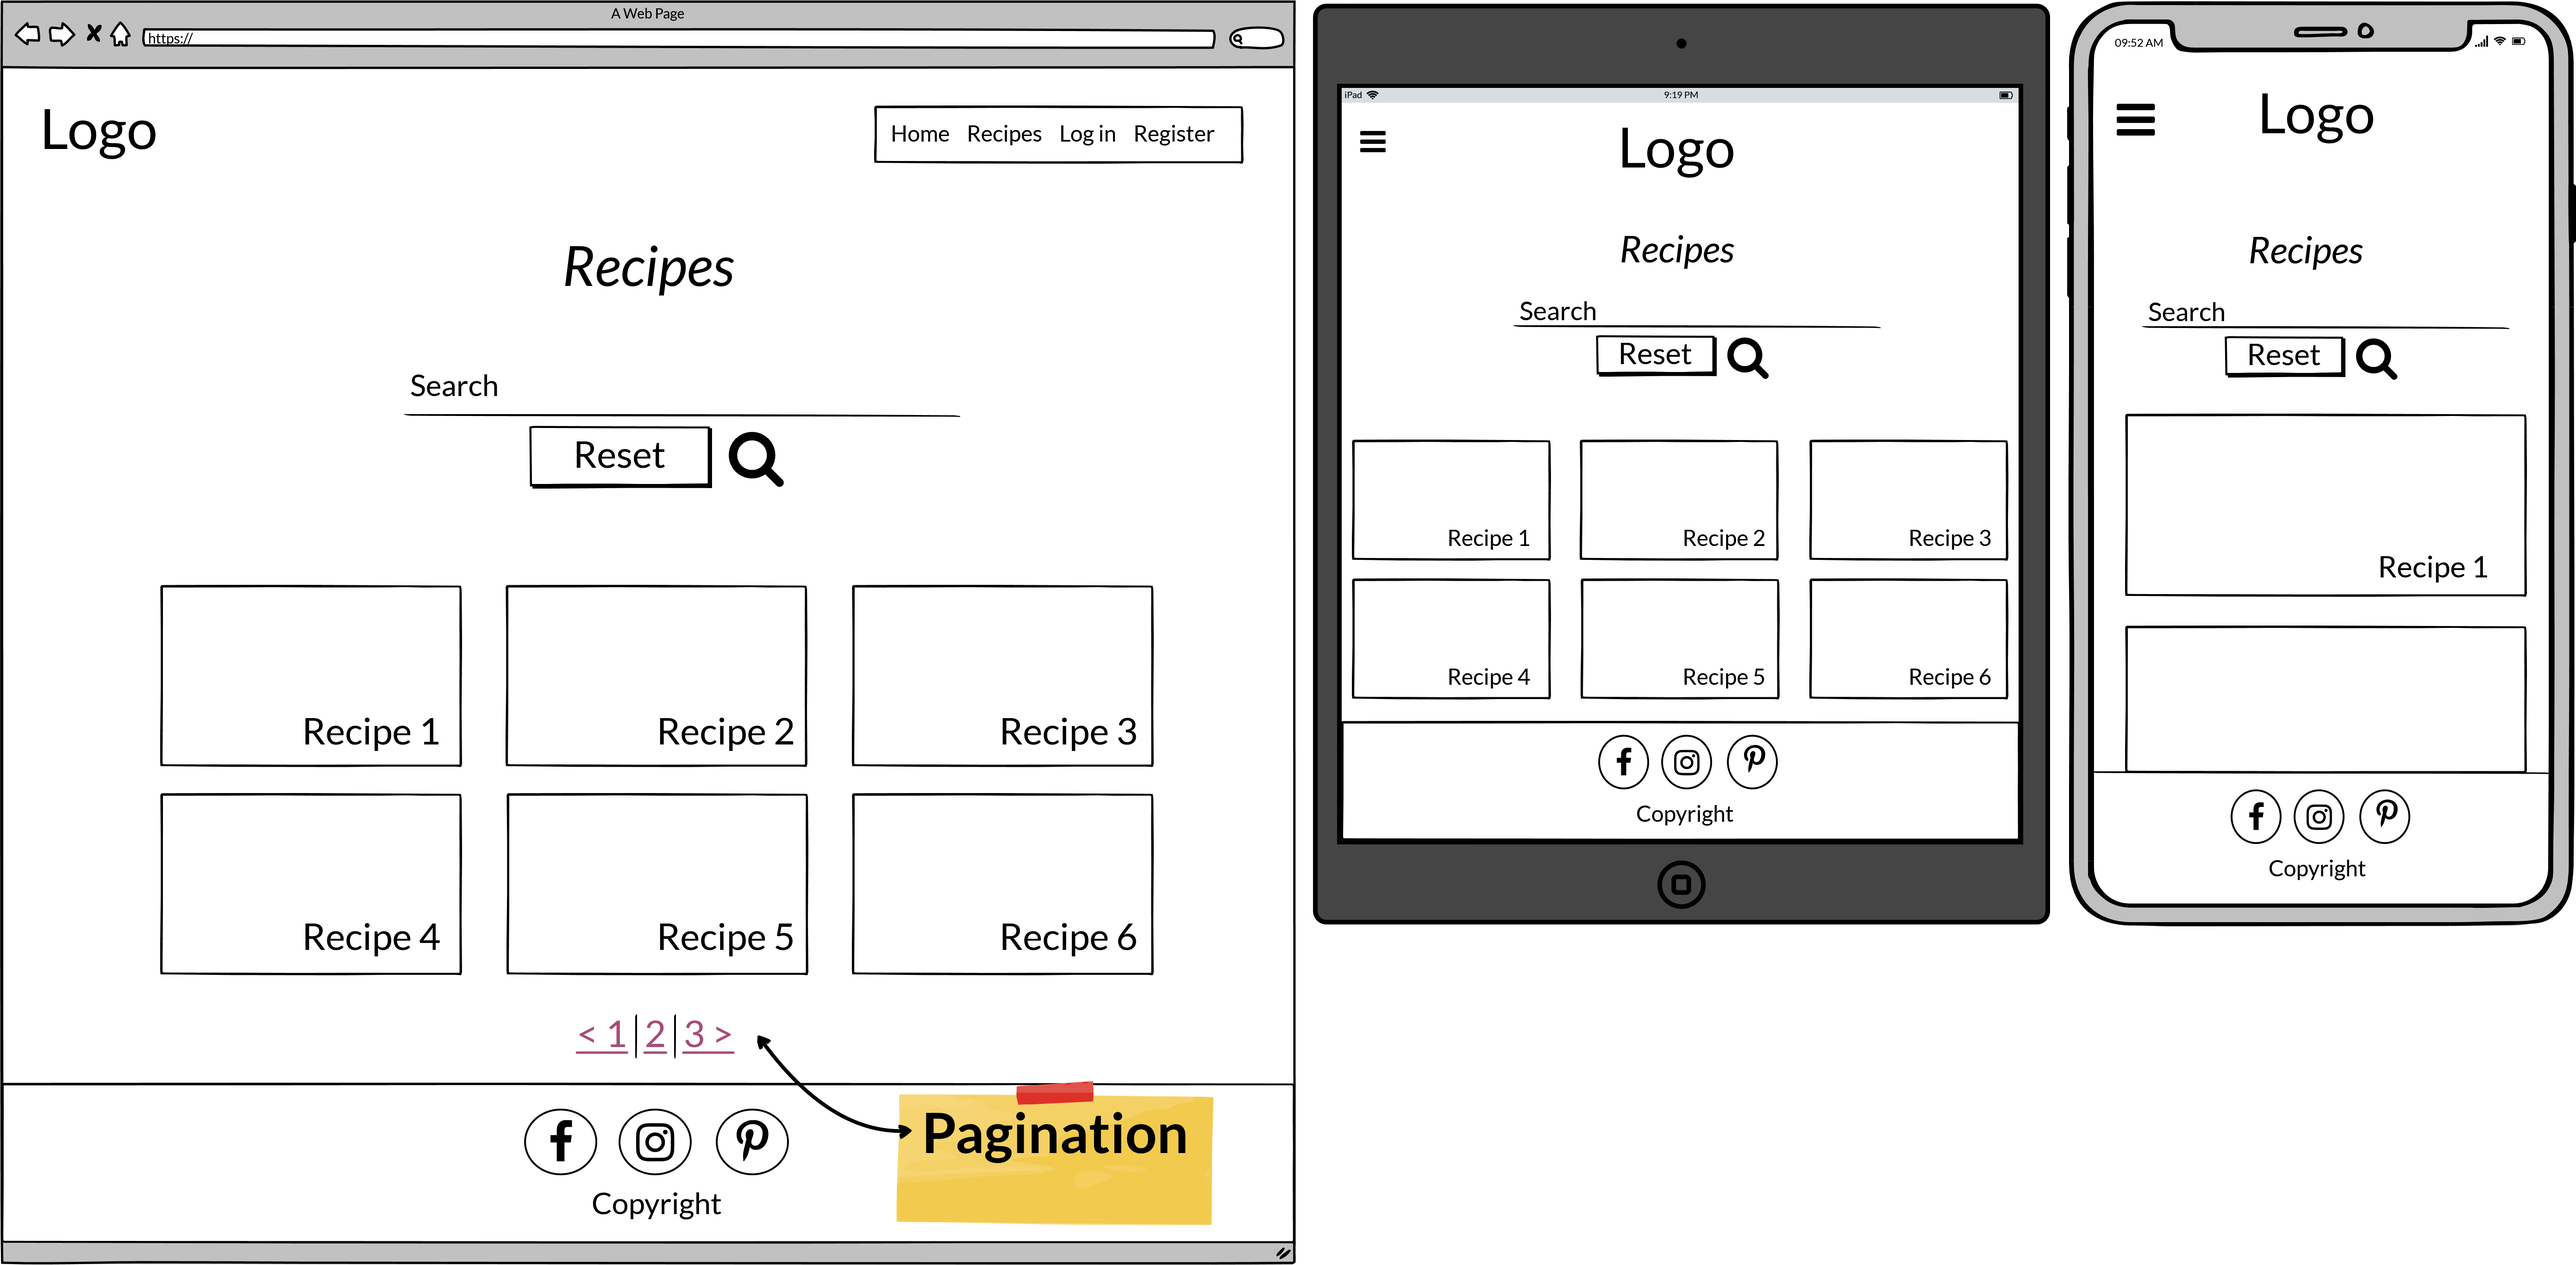
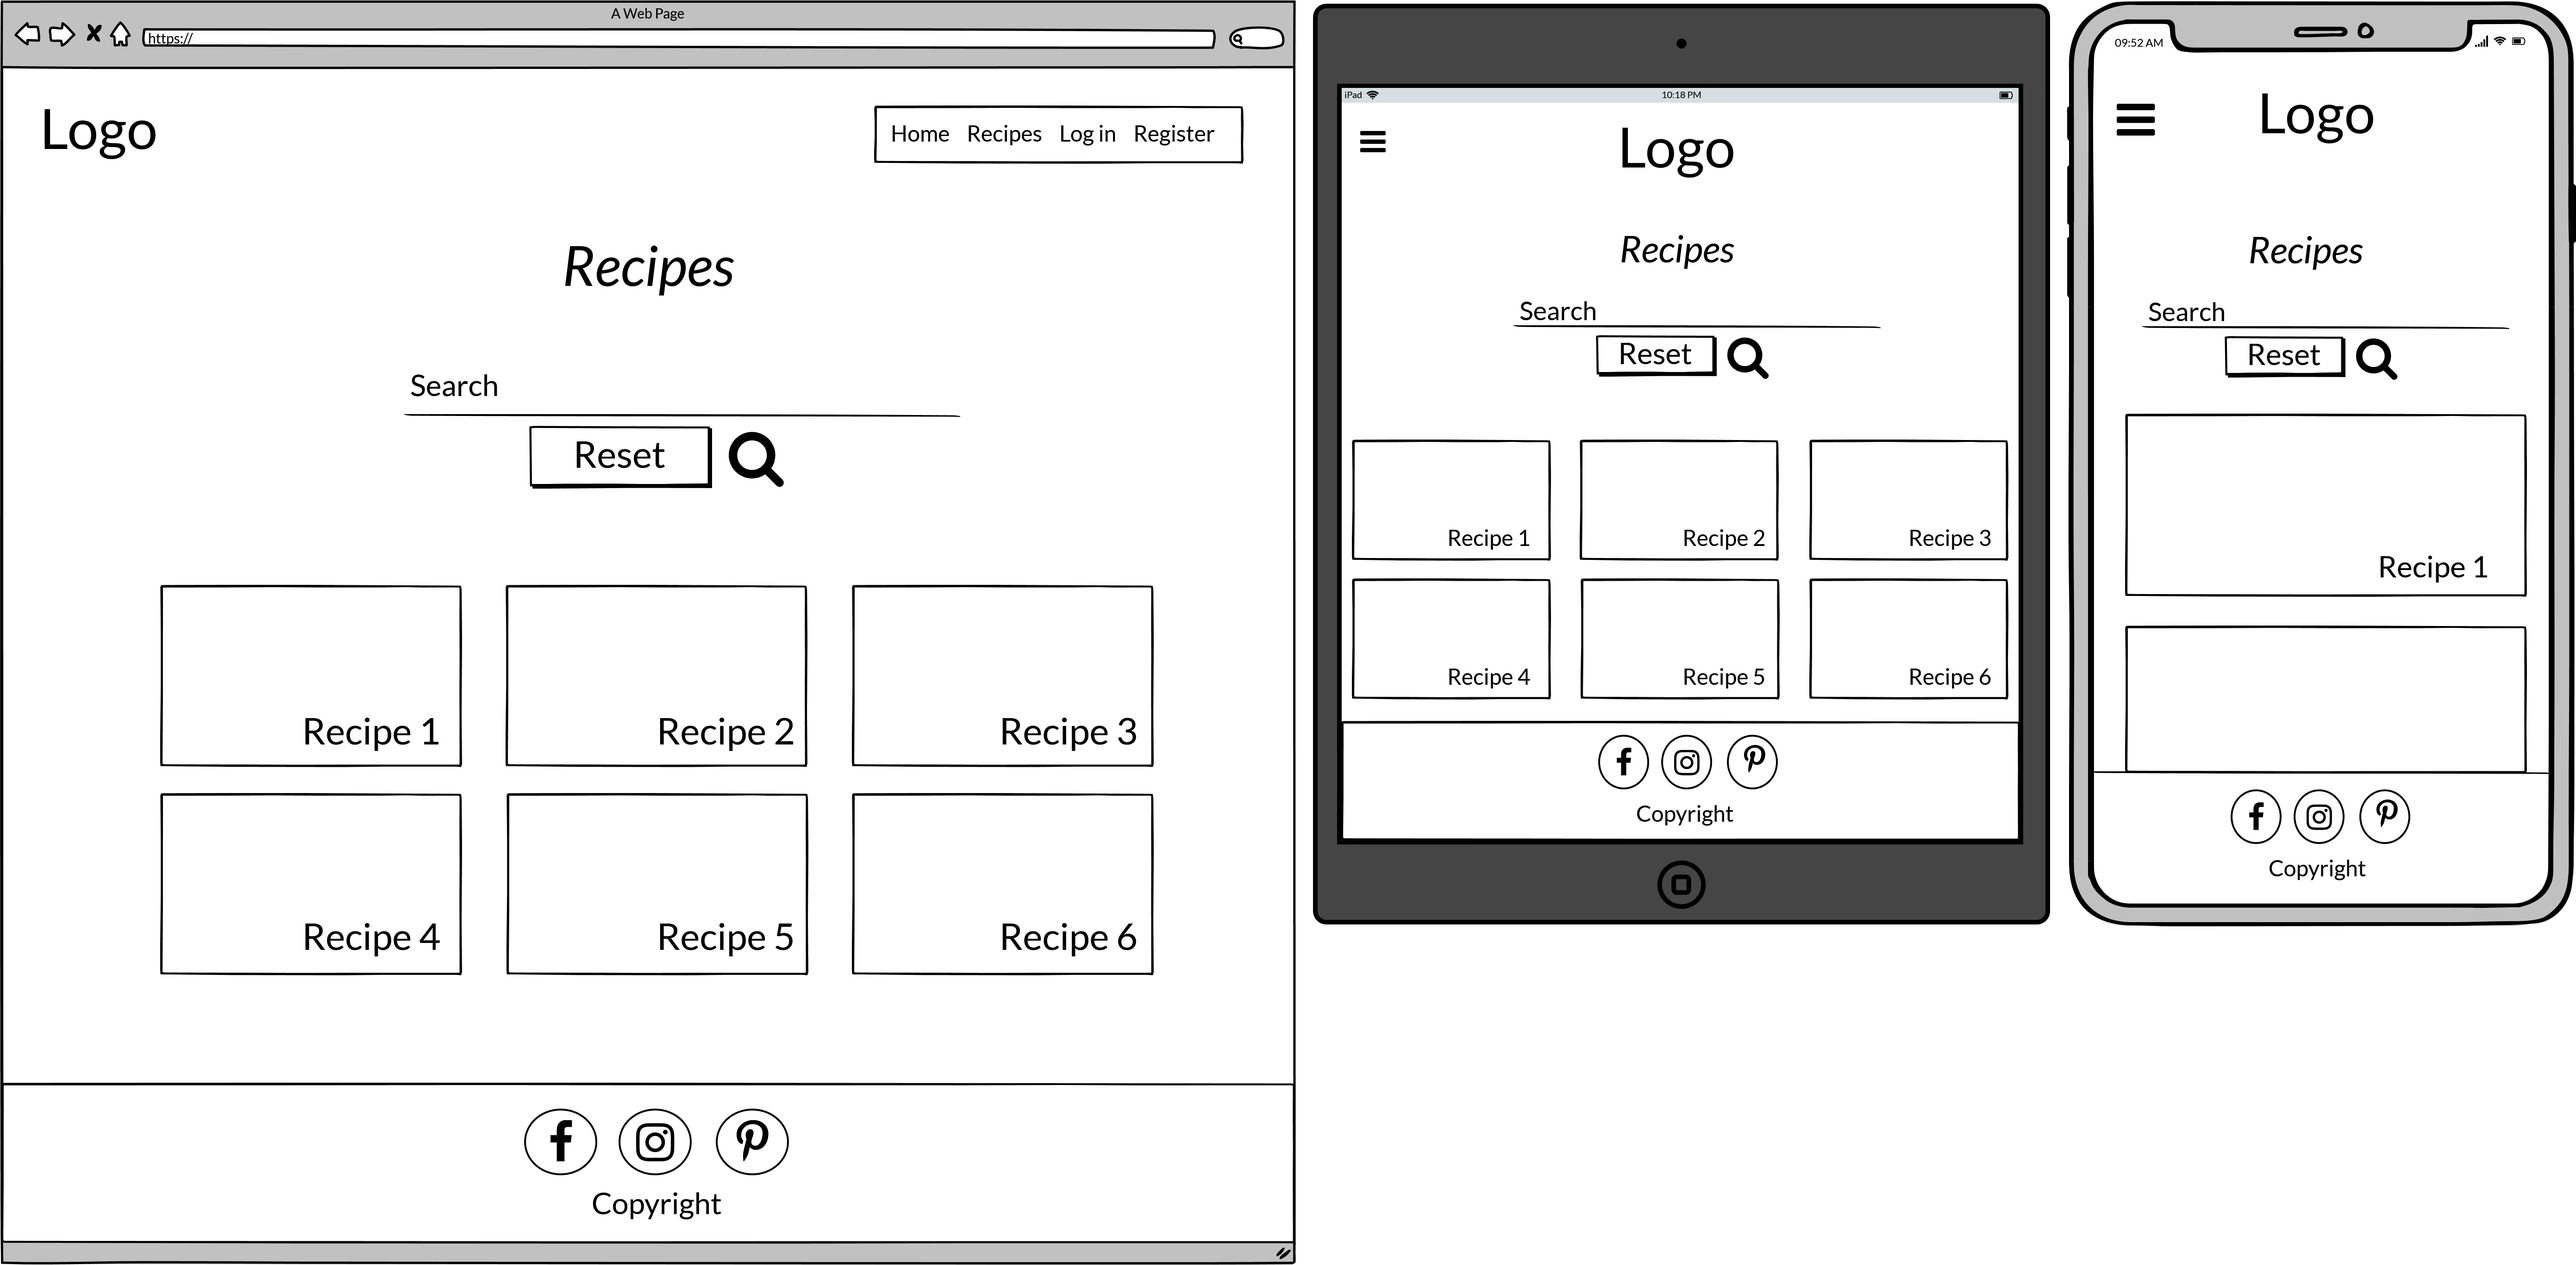
Added and replaced wireframes

Changed region(s): [[0.342, 0.8394, 0.4975, 0.9949], [0.2176, 0.8083, 0.2798, 0.8394]]

diff --git a/README.md b/README.md
@@ -89,6 +89,10 @@ The database is made up of three collections; Categories, Recipes and Users.
 
 ![Recipes page Wireframe](static/docs/wireframes/recipes-wireframe.png)
 
+* Category page wireframe:
+
+![Category page Wireframe](static/docs/wireframes/category-wireframe.png)
+
 ### Logged in pages:
 
 * Add Recipe page wireframe: 
